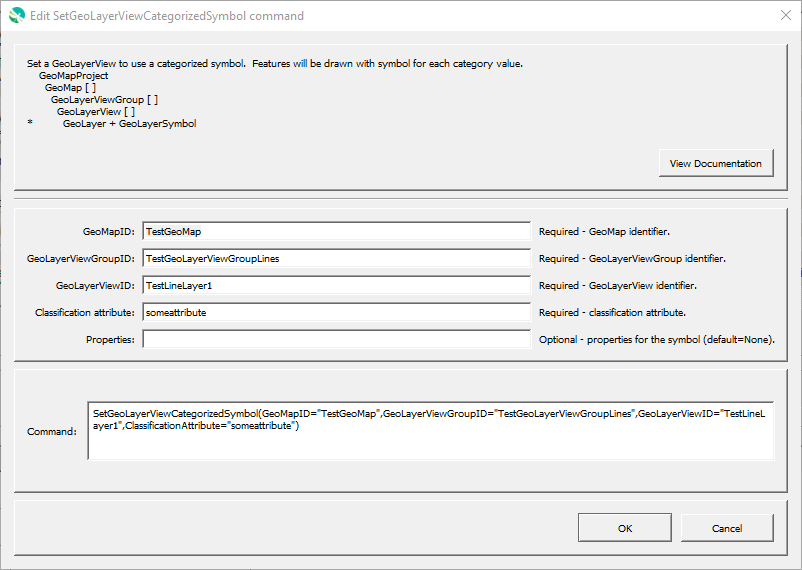
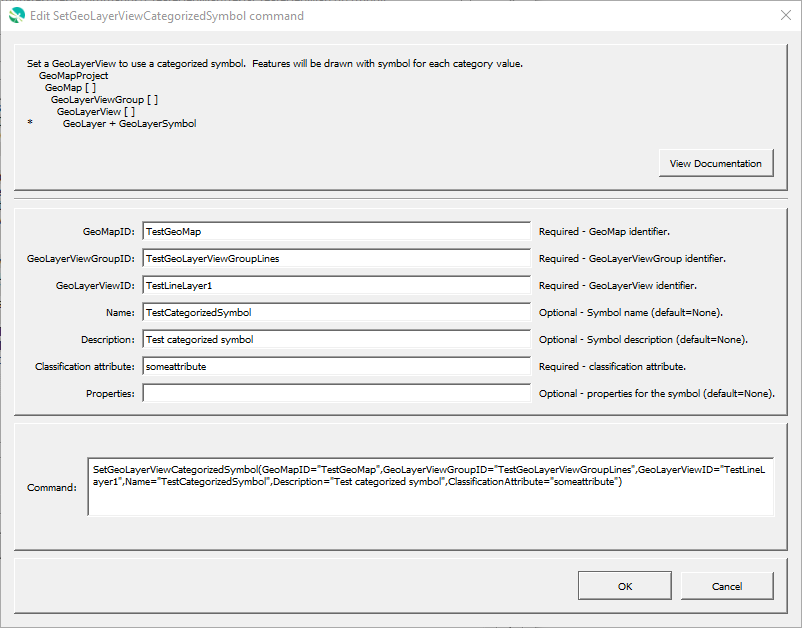
Commands that set layer view symbol now have name and desc, issue #25.

diff --git a/mkdocs-project/docs/command-ref/SetGeoLayerViewCategorizedSymbol/SetGeoLayerViewCategorizedSymbol.md b/mkdocs-project/docs/command-ref/SetGeoLayerViewCategorizedSymbol/SetGeoLayerViewCategorizedSymbol.md
@@ -48,7 +48,8 @@ Command Parameters
 | `GeoMapID` <br> **required** | The ID of the existing GeoMap. | None - must be specified. |
 | `GeoLayerViewGroupID` <br> **required** | The ID of the existing GeoLayerViewGroup. | None - must be specified. |
 | `GeoLayerViewID` <br> **required** | The ID of the existing GeoLayerView. | None - must be specified. |
-| `Name` | Name of the new GeoLayerViewGroup, used to label the group in the map legend. | None - must be specified. |
+| `Name` | Name of the symbol, to help with managing symbols. | |
+| `Description` | Description of the symbol, to help with managing symbols. | |
 | `Properties` | Properties for the symbol using syntax `Property1:Value1,Property2,'Value 2'`.  Single quotes are used around values when the value contains special characters such as comma and spaces.  See the [GeoMapProject](../../appendix-geomapproject/geomapproject.md) documentation a list of properties. |  |
 
 ## Examples ##

diff --git a/mkdocs-project/docs/command-ref/SetGeoLayerViewGraduatedSymbol/SetGeoLayerViewGraduatedSymbol.md b/mkdocs-project/docs/command-ref/SetGeoLayerViewGraduatedSymbol/SetGeoLayerViewGraduatedSymbol.md
@@ -48,7 +48,8 @@ Command Parameters
 | `GeoMapID` <br> **required** | The ID of the existing GeoMap. | None - must be specified. |
 | `GeoLayerViewGroupID` <br> **required** | The ID of the existing GeoLayerViewGroup. | None - must be specified. |
 | `GeoLayerViewID` <br> **required** | The ID of the existing GeoLayerView. | None - must be specified. |
-| `Name` | Name of the new GeoLayerViewGroup, used to label the group in the map legend. | None - must be specified. |
+| `Name` | Name of the symbol, to help with managing symbols. | |
+| `Description` | Description of the symbol, to help with managing symbols. | |
 | `Properties` | Properties for the symbol using syntax `Property1:Value1,Property2,'Value 2'`.  Single quotes are used around values when the value contains special characters such as comma and spaces.  See the [GeoMapProject](../../appendix-geomapproject/geomapproject.md) documentation a list of properties. |  |
 
 ## Examples ##

diff --git a/mkdocs-project/docs/command-ref/SetGeoLayerViewSingleSymbol/SetGeoLayerViewSingleSymbol.md b/mkdocs-project/docs/command-ref/SetGeoLayerViewSingleSymbol/SetGeoLayerViewSingleSymbol.md
@@ -47,7 +47,8 @@ Command Parameters
 | `GeoMapID` <br> **required** | The ID of the existing GeoMap. | None - must be specified. |
 | `GeoLayerViewGroupID` <br> **required** | The ID of the existing GeoLayerViewGroup. | None - must be specified. |
 | `GeoLayerViewID` <br> **required** | The ID of the existing GeoLayerView. | None - must be specified. |
-| `Name` | Name of the new GeoLayerViewGroup, used to label the group in the map legend. | None - must be specified. |
+| `Name` | Name of the symbol, to help with managing symbols. | |
+| `Description` | Description of the symbol, to help with managing symbols. | |
 | `Properties` | Properties for the symbol using syntax `Property1:Value1,Property2,'Value 2'`.  Single quotes are used around values when the value contains special characters such as comma and spaces.  See the [GeoMapProject](../../appendix-geomapproject/geomapproject.md) documentation a list of properties. |  |
 
 ## Examples ##
